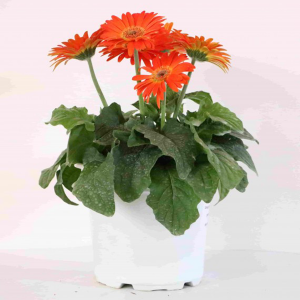
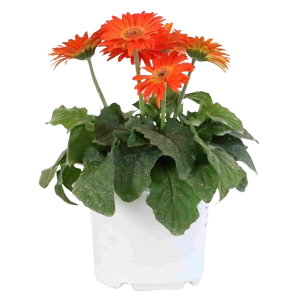
update code

diff --git a/src/Data/data.js b/src/Data/data.js
@@ -183,7 +183,7 @@ const flowerData =
         { Name: 'White roses', Category: 'bohoa', Price: '350000', PriceOld: '450000', Images: '/BoHoa/10258_white-roses.jpg' },
         { Name: 'The greatest thing 2', Category: 'bohoa', Price: '1250000', PriceOld: '1350000', Images: '/BoHoa/13259_the-greatest-thing.jpg' },
         { Name: 'Điều dễ thương', Category: 'bohoa', Price: '400000', PriceOld: '', Images: '/BoHoa/13441_dieu-de-thuong.jpg' },
-        { Name: 'Black pink', Category: 'bohoa', Price: '400000', PriceOld: '', Images: '/BoHoa/14386_black-pink.jpuyện của nắngg' },
+        { Name: 'Black pink', Category: 'bohoa', Price: '400000', PriceOld: '', Images: '/BoHoa/14386_black-pink.jpg' },
         { Name: 'Romantic heart', Category: 'bohoa', Price: '1500000', PriceOld: '1600000', Images: '/BoHoa/11593_romantic-heart.jpg' },
         { Name: 'Tỏa nắng 3', Category: 'bohoa', Price: '1000000', PriceOld: '', Images: '/BoHoa/14426_toa-nang.jpg' },
         { Name: 'Passionate Love', Category: 'bohoa', Price: '1500000', PriceOld: '1600000', Images: '/BoHoa/14424_passionate-love.jpg' },
@@ -220,7 +220,7 @@ const flowerData =
         { Name: 'Lan tỏa yêu thương', Category: 'giohoa', Price: '550000', PriceOld: '', Images: '/GioHoaTuoi/14843_lan-toa-yeu-thuong.jpg' },
         { Name: 'Sound of love', Category: 'giohoa', Price: '350000', PriceOld: '450000', Images: '/GioHoaTuoi/11610_sound-of-love.jpg' },
         { Name: 'Bất ngờ nhỏ', Category: 'giohoa', Price: '450000', PriceOld: '', Images: '/GioHoaTuoi/14842_bat-ngo-nho.jpg' },
-        { Name: 'Chiều hoàng hôn', Category: 'giohoa', Price: '600000', PriceOld: '650000', Images: '/GioHoaTuoi/11609_chieu-hoang-hon.jpg' },
+        { Name: 'Chiều hoàng hôn', Category: 'giohoa', Price: '600000', PriceOld: '650000', Images: '/GioHoaTuoi/11609_chieu-hoang-hon.png' },
         { Name: 'Love is you', Category: 'giohoa', Price: '650000', PriceOld: '', Images: '/GioHoaTuoi/14399_love-is-you.jpg' },
         { Name: 'Tuổi xanh', Category: 'giohoa', Price: '550000', PriceOld: '', Images: '/GioHoaTuoi/13219_tuoi-xanh.jpg' },
         { Name: 'Nữ hoàng', Category: 'giohoa', Price: '600000', PriceOld: '700000', Images: '/GioHoaTuoi/13075_nu-hoang.jpg' },
@@ -353,7 +353,7 @@ const flowerData =
         { Name: 'Sức sống', Price: '1000000', Category: 'hophoa', PriceOld: '', Images: '/HopHoaTuoi/14553_suc-song.jpg' },
         { Name: 'Niềm hi vọng', Price: '1500000', Category: 'hophoa', PriceOld: '', Images: '/HopHoaTuoi/14677_niem-hi-vong.jpg' },
         { Name: 'Trái tim chân thành', Price: '1800000', Category: 'hophoa', PriceOld: '', Images: '/HopHoaTuoi/14675_trai-tim-chan-thanh.jpg' },
-        { Name: 'Morning of Garden', Price: '950000', Category: 'hophoa', PriceOld: '1000000', Images: '/HopHoaTuoi/10908_morning-of-garden.jpg' },
+        { Name: 'Morning of Garden', Price: '950000', Category: 'hophoa', PriceOld: '1000000', Images: '/HopHoaTuoi/10908_morning-of-garden.png' },
         { Name: 'Lối rẽ', Price: '1800000', Category: 'hophoa', PriceOld: '', Images: '/HopHoaTuoi/14679_loi-re.jpg' },
         { Name: 'Hoa sen đá 3', Price: '2000000', Category: 'hophoa', PriceOld: '2050000', Images: '/HopHoaTuoi/14394_hoa-sen-da.jpg' },
         { Name: 'Love Heart', Price: '2300000', Category: 'hophoa', PriceOld: '2500000', Images: '/HopHoaTuoi/5128_love-heart.jpg' },
@@ -375,17 +375,17 @@ const flowerData =
         { Name: 'Amour', Price: '1000000', Category: 'hophoa', PriceOld: '1100000', Images: '/HopHoaTuoi/13222_amour.jpg' },
         { Name: 'Đồng hành', Price: '1500000', Category: 'hophoa', PriceOld: '1550000', Images: '/HopHoaTuoi/13192_dong-hanh.jpg' },
         { Name: 'Touch my heart', Price: '1300000', Category: 'hophoa', PriceOld: '1600000', Images: '/HopHoaTuoi/8041_touch-my-heart.jpg' },
-        { Name: 'Trái tim yêu thương', Price: '1550000', Category: 'hophoa', PriceOld: '1800000', Images: '/HopHoaTuoi/11045_trai-tim-yeu-thuong.jpg' },
+        { Name: 'Trái tim yêu thương', Price: '1550000', Category: 'hophoa', PriceOld: '1800000', Images: '/HopHoaTuoi/11045_trai-tim-yeu-thuong.png' },
         { Name: 'Cutie bear and rose 7', Price: '1000000', Category: 'hophoa', PriceOld: '1100000', Images: '/HopHoaTuoi/14183_cutie-bear-and-rose.jpg' },
         { Name: 'Điều ngọt ngào 2', Price: '1000000', Category: 'hophoa', PriceOld: '', Images: '/HopHoaTuoi/13193_dieu-ngot-ngao.jpg' },
         { Name: 'Năng lượng tràn đầy', Price: '1500000', Category: 'hophoa', PriceOld: '1550000', Images: '/HopHoaTuoi/10906_nang-luong-tran-day.jpg' },
         { Name: 'Bright sky', Price: '850000', Category: 'hophoa', PriceOld: '', Images: '/HopHoaTuoi/8042_bright-sky.jpg' },
-        { Name: 'Hoàng hôn ngọt ngào', Price: '850000', Category: 'hophoa', PriceOld: '', Images: '/HopHoaTuoi/10905_hoang-hon-ngot-ngao.jpg' },
+        { Name: 'Hoàng hôn ngọt ngào', Price: '850000', Category: 'hophoa', PriceOld: '', Images: '/HopHoaTuoi/10905_hoang-hon-ngot-ngao.png' },
         { Name: 'Home sweet home', Price: '880000', Category: 'hophoa', PriceOld: '1200000', Images: '/HopHoaTuoi/8367_home-sweet-home.jpg' },
         { Name: 'Hoa sen đá 1', Price: '1400000', Category: 'hophoa', PriceOld: '1450000', Images: '/HopHoaTuoi/10411_hoa-sen-da.jpg' },
         { Name: 'Niềm Tin', Price: '700000', Category: 'hophoa', PriceOld: '', Images: '/HopHoaTuoi/5201_niem-tin.jpg' },
         { Name: 'Tự tình', Price: '800000', Category: 'hophoa', PriceOld: '', Images: '/HopHoaTuoi/11584_tu-tinh.jpg' },
-        { Name: 'Trọn Vẹn Bên Nhau', Price: '800000', Category: 'hophoa', PriceOld: '', Images: '/HopHoaTuoi/6026_tron-ven-ben-nhau.jpg' },
+        { Name: 'Trọn Vẹn Bên Nhau', Price: '800000', Category: 'hophoa', PriceOld: '', Images: '/HopHoaTuoi/6026_tron-ven-ben-nhau.png' },
         { Name: 'Ấn tượng', Price: '800000', Category: 'hophoa', PriceOld: '', Images: '/HopHoaTuoi/13184_an-tuong.jpg' },
         { Name: 'Only rose 2', Price: '950000', Category: 'hophoa', PriceOld: '1000000', Images: '/HopHoaTuoi/12958_only-rose.jpg' },
         { Name: 'Sự sống', Price: '1500000', Category: 'hophoa', PriceOld: '1700000', Images: '/HopHoaTuoi/4695_su-song.jpg' },
@@ -394,17 +394,17 @@ const flowerData =
         { Name: 'Trong xanh', Price: '1000000', Category: 'hophoa', PriceOld: '1150000', Images: '/HopHoaTuoi/13221_trong-xanh.jpg' },
         { Name: 'Jolie', Price: '1500000', Category: 'hophoa', PriceOld: '', Images: '/HopHoaTuoi/13242_jolie.jpg' },
         { Name: 'Mama  Love', Price: '850000', Category: 'hophoa', PriceOld: '900000', Images: '/HopHoaTuoi/4920_mama-love.jpg' },
-        { Name: 'Feeling', Price: '1200000', Category: 'hophoa', PriceOld: '1300000', Images: '/HopHoaTuoi/10682_feeling.jpg' },
+        { Name: 'Feeling', Price: '1200000', Category: 'hophoa', PriceOld: '1300000', Images: '/HopHoaTuoi/10682_feeling.png' },
         { Name: 'Bản nhạc dịu êm', Price: '400000', Category: 'hophoa', PriceOld: '', Images: '/HopHoaTuoi/3339_ban-nhac-diu-em.jpg' },
         { Name: 'Nắng Sớm Mai', Price: '900000', Category: 'hophoa', PriceOld: '', Images: '/HopHoaTuoi/5282_nang-som-mai.jpg' },
         { Name: 'Pink Box', Price: '1000000', Category: 'hophoa', PriceOld: '1100000', Images: '/HopHoaTuoi/8290_pink-box.jpg' },
-        { Name: 'Hương gió', Price: '500000', Category: 'hophoa', PriceOld: '', Images: '/HopHoaTuoi/8443_huong-gio.jpg' },
+        { Name: 'Hương gió', Price: '500000', Category: 'hophoa', PriceOld: '', Images: '/HopHoaTuoi/8443_huong-gio.png' },
         { Name: 'Mộng mơ', Price: '600000', Category: 'hophoa', PriceOld: '', Images: '/HopHoaTuoi/4337_mong-mo.jpg' },
         { Name: 'Đong đầy', Price: '1100000', Category: 'hophoa', PriceOld: '', Images: '/HopHoaTuoi/13188_dong-day.jpg' },
         { Name: 'Một ngày nắng hồng', Price: '750000', Category: 'hophoa', PriceOld: '', Images: '/HopHoaTuoi/14498_mot-ngay-nang-hong.jpg' },
-        { Name: 'Hạnh phúc bất tận 2', Price: '1500000', Category: 'hophoa', PriceOld: '', Images: '/HopHoaTuoi/11044_hanh-phuc-bat-tan.jpg' },
+        { Name: 'Hạnh phúc bất tận 2', Price: '1500000', Category: 'hophoa', PriceOld: '', Images: '/HopHoaTuoi/11044_hanh-phuc-bat-tan.png' },
         { Name: 'Beauty queen', Price: '1400000', Category: 'hophoa', PriceOld: '', Images: '/HopHoaTuoi/8025_beauty-queen.jpg' },
-        { Name: 'La vie en rose', Price: '1100000', Category: 'hophoa', PriceOld: '', Images: '/HopHoaTuoi/10686_la-vie-en-rose.jpg' },
+        { Name: 'La vie en rose', Price: '1100000', Category: 'hophoa', PriceOld: '', Images: '/HopHoaTuoi/10686_la-vie-en-rose.png' },
         { Name: 'Ngọt ngào 2', Price: '900000', Category: 'hophoa', PriceOld: '', Images: '/HopHoaTuoi/12529_ngot-ngao.jpg' },
         { Name: 'My dear', Price: '900000', Category: 'hophoa', PriceOld: '', Images: '/HopHoaTuoi/8369_my-dear.jpg' },
         { Name: 'Tình Yêu Màu Nắng', Price: '850000', Category: 'hophoa', PriceOld: '916000', Images: '/HopHoaTuoi/8819_tinh-yeu-mau-nang.jpg' },
@@ -439,7 +439,7 @@ const flowerData =
         { Name: 'Cutie bear and rose 10', Price: '1100000', Category: 'hophoa', PriceOld: '', Images: '/HopHoaTuoi/14550_cutie-bear-and-rose.jpg' },
         { Name: 'Tấm lòng biết ơn', Price: '900000', Category: 'hophoa', PriceOld: '', Images: '/HopHoaTuoi/14552_tam-long-biet-on.jpg' },
         { Name: 'Rosa Grace', Price: '1200000', Category: 'hophoa', PriceOld: '1300000', Images: '/HopHoaTuoi/14457_rosa-grace.jpg' },
-        { Name: 'Sun flower', Price: '600000', Category: 'hophoa', PriceOld: '720000', Images: '/HopHoaTuoi/8040_sun-flower.jpg' },
+        { Name: 'Sun flower', Price: '600000', Category: 'hophoa', PriceOld: '720000', Images: '/HopHoaTuoi/8040_sun-flower.png' },
         { Name: 'Dạ khúc bên em', Price: '450000', Category: 'hophoa', PriceOld: '', Images: '/HopHoaTuoi/14673_da-khuc-ben-em.jpg' },
         { Name: 'Vững chắc', Price: '450000', Category: 'hophoa', PriceOld: '', Images: '/HopHoaTuoi/14674_vung-chac.jpg' },
         { Name: 'A little sweet', Price: '1500000', Category: 'hophoa', PriceOld: '1700000', Images: '/HopHoaTuoi/13225_a-little-sweet.jpg' },
@@ -454,10 +454,10 @@ const flowerData =
         { Name: 'For Gentlemen 2', Price: '2000000', Category: 'hophoa', PriceOld: '2100000', Images: '/HopHoaTuoi/14684_for-gentlemen.jpg' },
         { Name: 'Graceful 2', Price: '2500000', Category: 'hophoa', PriceOld: '', Images: '/HopHoaTuoi/14685_graceful.jpg' },
         { Name: 'Hồng tươi sáng', Price: '1500000', Category: 'hophoa', PriceOld: '', Images: '/HopHoaTuoi/14478_hong-tuoi-sang.jpg' },
-        { Name: 'Điều Mong Ước', Price: '1500000', Category: 'hophoa', PriceOld: '1700000', Images: '/HopHoaTuoi/6024_dieu-mong-uoc.jpg' },
+        { Name: 'Điều Mong Ước', Price: '1500000', Category: 'hophoa', PriceOld: '1700000', Images: '/HopHoaTuoi/6024_dieu-mong-uoc.png' },
         { Name: 'Gentle Bloom', Price: '1300000', Category: 'hophoa', PriceOld: '', Images: '/HopHoaTuoi/14456_gentle-bloom.jpg' },
-        { Name: 'Tiếp bước', Price: '2000000', Category: 'hophoa', PriceOld: '1700000', Images: '/HopHoaTuoi/11567_tiep-buoc.jpg' },
-        { Name: 'Red box', Price: '1600000', Category: 'hophoa', PriceOld: '1875000', Images: '/HopHoaTuoi/8289_red-box.jpg"' },
+        { Name: 'Tiếp bước', Price: '2000000', Category: 'hophoa', PriceOld: '1700000', Images: '/HopHoaTuoi/11567_tiep-buoc.png' },
+        { Name: 'Red box', Price: '1600000', Category: 'hophoa', PriceOld: '1875000', Images: '/HopHoaTuoi/8289_red-box.png' },
         { Name: 'Tim yêu', Price: '2200000', Category: 'hophoa', PriceOld: '2500000', Images: '/HopHoaTuoi/14693_tim-yeu.jpg' },
         { Name: 'Tung cánh bay xa', Price: '2500000', Category: 'hophoa', PriceOld: '', Images: '/HopHoaTuoi/14690_tung-canh-bay-xa.jpg' },
         { Name: 'Hy Vọng', Price: '650000', Category: 'hophoa', PriceOld: '', Images: '/HopHoaTuoi/5129_hy-vong.jpg' },
@@ -465,57 +465,57 @@ const flowerData =
         { Name: 'Màu nắng mới', Price: '700000', Category: 'hophoa', PriceOld: '', Images: '/HopHoaTuoi/14845_mau-nang-moi.jpg' },
         //Xong
         //CHẬU HOA
-        { Name: 'Chậu cúc Nhật', Price: '350000', Category: 'chauhoa', PriceOld: '', Images: '/ChauHoa/chau-cuc-nhat_300x300.jpg' },
+        { Name: 'Chậu cúc Nhật', Price: '350000', Category: 'chauhoa', PriceOld: '', Images: '/ChauHoa/chau-cuc-nhat_300x300.png' },
         { Name: 'Chậu cây hoa hồng 09', Price: '380000', Category: 'chauhoa', PriceOld: '', Images: '/ChauHoa/chau-cay-hoa-hong-09_300x300.jpg' },
         { Name: 'Chậu đồng tiền 01', Price: '380000', Category: 'chauhoa', PriceOld: '', Images: '/ChauHoa/chau-dong-tien-01_300x300.jpg' },
-        { Name: 'Chậu đồng tiền 02', Price: '380000', Category: 'chauhoa', PriceOld: '', Images: '/ChauHoa/chau-dong-tien-02_300x300.jpg' },
-        { Name: 'Chậu đồng tiền 03', Price: '380000', Category: 'chauhoa', PriceOld: '', Images: '/ChauHoa/chau-dong-tien-03_300x300.jpg' },
+        { Name: 'Chậu đồng tiền 02', Price: '380000', Category: 'chauhoa', PriceOld: '', Images: '/ChauHoa/chau-dong-tien-02_300x300.png' },
+        { Name: 'Chậu đồng tiền 03', Price: '380000', Category: 'chauhoa', PriceOld: '', Images: '/ChauHoa/chau-dong-tien-03_300x300.png' },
         { Name: 'Chậu đồng tiền 04', Price: '380000', Category: 'chauhoa', PriceOld: '', Images: '/ChauHoa/chau-dong-tien-04_300x300.png' },
         { Name: 'Chậu đồng tiền 05', Price: '380000', Category: 'chauhoa', PriceOld: '', Images: '/ChauHoa/chau-dong-tien-05_300x300.png' },
-        { Name: 'Chậu cây oải hương 03', Price: '390000', Category: 'chauhoa', PriceOld: '', Images: '/ChauHoa/chau-cay-oai-huong-03_300x300.jpg' },
-        { Name: 'Chậu cây hoa hồng 03', Price: '380000', Category: 'chauhoa', PriceOld: '', Images: '/ChauHoa/chau-cay-hoa-hong-03_300x300.jpg' },
-        { Name: 'Chậu cây hoa hồng 04', Price: '400000', Category: 'chauhoa', PriceOld: '', Images: '/ChauHoa/chau-cay-hoa-hong-04_300x300.jpg' },
-        { Name: 'Chậu cây hoa hồng 06', Price: '400000', Category: 'chauhoa', PriceOld: '', Images: '/ChauHoa/chau-cay-hoa-hong-06_300x300.jpg' },
-        { Name: 'Cây trạng nguyên 09', Price: '420000', Category: 'chauhoa', PriceOld: '', Images: '/ChauHoa/cay-trang-nguyen-09_300x300.jpg' },
-        { Name: 'Chậu cây oải hương 01', Price: '450000', Category: 'chauhoa', PriceOld: '', Images: '/ChauHoa/chau-cay-oai-huong-01_300x300.jpg' },
-        { Name: 'Chậu cây oải hương 02', Price: '450000', Category: 'chauhoa', PriceOld: '', Images: '/ChauHoa/chau-cay-oai-huong-02_300x300.jpg' },
-        { Name: 'Chậu cúc calimero 01', Price: '450000', Category: 'chauhoa', PriceOld: '', Images: '/ChauHoa/chau-cuc-calimero-01_300x300.jpg' },
+        { Name: 'Chậu cây oải hương 03', Price: '390000', Category: 'chauhoa', PriceOld: '', Images: '/ChauHoa/chau-cay-oai-huong-03_300x300.png' },
+        { Name: 'Chậu cây hoa hồng 03', Price: '380000', Category: 'chauhoa', PriceOld: '', Images: '/ChauHoa/chau-cay-hoa-hong-03_300x300.png' },
+        { Name: 'Chậu cây hoa hồng 04', Price: '400000', Category: 'chauhoa', PriceOld: '', Images: '/ChauHoa/chau-cay-hoa-hong-04_300x300.png' },
+        { Name: 'Chậu cây hoa hồng 06', Price: '400000', Category: 'chauhoa', PriceOld: '', Images: '/ChauHoa/chau-cay-hoa-hong-06_300x300.png' },
+        { Name: 'Cây trạng nguyên 09', Price: '420000', Category: 'chauhoa', PriceOld: '', Images: '/ChauHoa/cay-trang-nguyen-09_300x300.png' },
+        { Name: 'Chậu cây oải hương 01', Price: '450000', Category: 'chauhoa', PriceOld: '', Images: '/ChauHoa/chau-cay-oai-huong-01_300x300.png' },
+        { Name: 'Chậu cây oải hương 02', Price: '450000', Category: 'chauhoa', PriceOld: '', Images: '/ChauHoa/chau-cay-oai-huong-02_300x300.png' },
+        { Name: 'Chậu cúc calimero 01', Price: '450000', Category: 'chauhoa', PriceOld: '', Images: '/ChauHoa/chau-cuc-calimero-01_300x300.png' },
         { Name: 'Cây trạng nguyên 01', Price: '450000', Category: 'chauhoa', PriceOld: '', Images: '/ChauHoa/cay-trang-nguyen-01_300x300.jpg' },
-        { Name: 'Cây trạng nguyên 05', Price: '450000', Category: 'chauhoa', PriceOld: '', Images: '/ChauHoa/cay-trang-nguyen-05_300x300.jpg' },
-        { Name: 'Cây trạng nguyên 02', Price: '460000', Category: 'chauhoa', PriceOld: '', Images: '/ChauHoa/cay-trang-nguyen-02_300x300.jpg' },
-        { Name: 'Chậu cây hoa hồng 01', Price: '480000', Category: 'chauhoa', PriceOld: '', Images: '/ChauHoa/chau-cay-hoa-hong-01_300x300.jpg' },
-        { Name: 'Chậu cây hoa hồng 07', Price: '480000', Category: 'chauhoa', PriceOld: '', Images: '/ChauHoa/chau-cay-hoa-hong-07_300x300.jpg' },
+        { Name: 'Cây trạng nguyên 05', Price: '450000', Category: 'chauhoa', PriceOld: '', Images: '/ChauHoa/cay-trang-nguyen-05_300x300.png' },
+        { Name: 'Cây trạng nguyên 02', Price: '460000', Category: 'chauhoa', PriceOld: '', Images: '/ChauHoa/cay-trang-nguyen-02_300x300.png' },
+        { Name: 'Chậu cây hoa hồng 01', Price: '480000', Category: 'chauhoa', PriceOld: '', Images: '/ChauHoa/chau-cay-hoa-hong-01_300x300.png' },
+        { Name: 'Chậu cây hoa hồng 07', Price: '480000', Category: 'chauhoa', PriceOld: '', Images: '/ChauHoa/chau-cay-hoa-hong-07_300x300.png' },
         { Name: 'Chậu cúc thân gỗ', Price: '480000', Category: 'chauhoa', PriceOld: '', Images: '/ChauHoa/chau-cuc-than-go_300x300.jpg' },
-        { Name: 'Cây trạng nguyên 03', Price: '480000', Category: 'chauhoa', PriceOld: '', Images: '/ChauHoa/cay-trang-nguyen-03_300x300.jpg' },
+        { Name: 'Cây trạng nguyên 03', Price: '480000', Category: 'chauhoa', PriceOld: '', Images: '/ChauHoa/cay-trang-nguyen-03_300x300.png' },
         { Name: 'Cây trạng nguyên 06', Price: '480000', Category: 'chauhoa', PriceOld: '', Images: '/ChauHoa/cay-trang-nguyen-06_300x300.jpg' },
-        { Name: 'Chậu cây hoa hồng 05', Price: '500000', Category: 'chauhoa', PriceOld: '', Images: '/ChauHoa/chau-cay-hoa-hong-05_300x300.jpg' },
-        { Name: 'Chậu hồng môn 02', Price: '500000', Category: 'chauhoa', PriceOld: '', Images: '/ChauHoa/chau-hong-mon-02_300x300.jpg' },
-        { Name: 'Cây trạng nguyên 10', Price: '500000', Category: 'chauhoa', PriceOld: '', Images: '/ChauHoa/chau-hong-mon-02_300x300.jpg' },
-        { Name: 'Chậu cây cẩm tú cầu 03', Price: '550000', Category: 'chauhoa', PriceOld: '', Images: '/ChauHoa/chau-cay-cam-tu-cau-03_300x300.jpg' },
-        { Name: 'Cây trạng nguyên 08', Price: '550000', Category: 'chauhoa', PriceOld: '', Images: '/ChauHoa/cay-trang-nguyen-08_300x300.jpg' },
-        { Name: 'Chậu cây cẩm tú cầu 01', Price: '600000', Category: 'chauhoa', PriceOld: '', Images: '/ChauHoa/chau-cay-cam-tu-cau-01_300x300.jpg' },
-        { Name: 'Chậu cây cẩm tú cầu 04', Price: '600000', Category: 'chauhoa', PriceOld: '', Images: '/ChauHoa/chau-cay-cam-tu-cau-04_300x300.jpg' },
-        { Name: 'Cây trạng nguyên 07', Price: '600000', Category: 'chauhoa', PriceOld: '', Images: '/ChauHoa/cay-trang-nguyen-07_300x300.jpg' },
+        { Name: 'Chậu cây hoa hồng 05', Price: '500000', Category: 'chauhoa', PriceOld: '', Images: '/ChauHoa/chau-cay-hoa-hong-05_300x300.png' },
+        { Name: 'Chậu hồng môn 02', Price: '500000', Category: 'chauhoa', PriceOld: '', Images: '/ChauHoa/chau-hong-mon-02_300x300.png' },
+        { Name: 'Cây trạng nguyên 10', Price: '500000', Category: 'chauhoa', PriceOld: '', Images: '/ChauHoa/chau-hong-mon-02_300x300.png' },
+        { Name: 'Chậu cây cẩm tú cầu 03', Price: '550000', Category: 'chauhoa', PriceOld: '', Images: '/ChauHoa/chau-cay-cam-tu-cau-03_300x300.png' },
+        { Name: 'Cây trạng nguyên 08', Price: '550000', Category: 'chauhoa', PriceOld: '', Images: '/ChauHoa/cay-trang-nguyen-08_300x300.png' },
+        { Name: 'Chậu cây cẩm tú cầu 01', Price: '600000', Category: 'chauhoa', PriceOld: '', Images: '/ChauHoa/chau-cay-cam-tu-cau-01_300x300.png' },
+        { Name: 'Chậu cây cẩm tú cầu 04', Price: '600000', Category: 'chauhoa', PriceOld: '', Images: '/ChauHoa/chau-cay-cam-tu-cau-04_300x300.png' },
+        { Name: 'Cây trạng nguyên 07', Price: '600000', Category: 'chauhoa', PriceOld: '', Images: '/ChauHoa/cay-trang-nguyen-07_300x300.png' },
         { Name: 'Cây trạng nguyên 13', Price: '600000', Category: 'chauhoa', PriceOld: '', Images: '/ChauHoa/cay-trang-nguyen-13_300x300.jpg' },
         { Name: 'Cây trạng nguyên 14', Price: '600000', Category: 'chauhoa', PriceOld: '', Images: '/ChauHoa/cay-trang-nguyen-14_300x300.jpg' },
-        { Name: 'Chậu cây cẩm tú cầu 02', Price: '650000', Category: 'chauhoa', PriceOld: '', Images: '/ChauHoa/chau-cay-cam-tu-cau-02_300x300.jpg' },
-        { Name: 'Chậu hồng môn 01', Price: '650000', Category: 'chauhoa', PriceOld: '', Images: '/ChauHoa/chau-hong-mon-01_300x300.jpg' },
-        { Name: 'Cây trạng nguyên 04', Price: '650000', Category: 'chauhoa', PriceOld: '', Images: '/ChauHoa/cay-trang-nguyen-04_300x300.jpg' },
+        { Name: 'Chậu cây cẩm tú cầu 02', Price: '650000', Category: 'chauhoa', PriceOld: '', Images: '/ChauHoa/chau-cay-cam-tu-cau-02_300x300.png' },
+        { Name: 'Chậu hồng môn 01', Price: '650000', Category: 'chauhoa', PriceOld: '', Images: '/ChauHoa/chau-hong-mon-01_300x300.png' },
+        { Name: 'Cây trạng nguyên 04', Price: '650000', Category: 'chauhoa', PriceOld: '', Images: '/ChauHoa/cay-trang-nguyen-04_300x300.png' },
         { Name: 'Cây trạng nguyên 16', Price: '650000', Category: 'chauhoa', PriceOld: '', Images: '/ChauHoa/cay-trang-nguyen-16_300x300.jpg' },
-        { Name: 'Cây trạng nguyên 19', Price: '650000', Category: 'chauhoa', PriceOld: '', Images: '/ChauHoa/cay-trang-nguyen-19_300x300.jpg' },
-        { Name: 'Chậu cây cẩm tú cầu 07', Price: '680000', Category: 'chauhoa', PriceOld: '', Images: '/ChauHoa/chau-cay-cam-tu-cau-07_300x300.jpg' },
-        { Name: 'Cây trạng nguyên 15', Price: '700000', Category: 'chauhoa', PriceOld: '', Images: '/ChauHoa/cay-trang-nguyen-15_300x300.jpg' },
-        { Name: 'Chậu cây cẩm tú cầu 05', Price: '750000', Category: 'chauhoa', PriceOld: '', Images: '/ChauHoa/chau-cay-cam-tu-cau-05_300x300.jpg' },
-        { Name: 'Cây trạng nguyên 17', Price: '750000', Category: 'chauhoa', PriceOld: '', Images: '/ChauHoa/cay-trang-nguyen-17_300x300.jpg' },
-        { Name: 'Chậu cây cẩm tú cầu 06', Price: '800000', Category: 'chauhoa', PriceOld: '', Images: '/ChauHoa/chau-cay-cam-tu-cau-06_300x300.jpg' },
-        { Name: 'Chậu cây hoa hồng 08', Price: '800000', Category: 'chauhoa', PriceOld: '', Images: '/ChauHoa/chau-cay-hoa-hong-08_300x300.jpg' },
-        { Name: 'Cây trạng nguyên 11', Price: '800000', Category: 'chauhoa', PriceOld: '', Images: '/ChauHoa/cay-trang-nguyen-11_300x300.jpg' },
-        { Name: 'Chậu cây hoa hồng 02', Price: '850000', Category: 'chauhoa', PriceOld: '', Images: '/ChauHoa/chau-cay-hoa-hong-02_300x300.jpg' },
-        { Name: 'Cây trạng nguyên 12', Price: '950000', Category: 'chauhoa', PriceOld: '', Images: '/ChauHoa/cay-trang-nguyen-12_300x300.jpg' },
-        { Name: 'Chậu cây tulip 01', Price: '1200000', Category: 'chauhoa', PriceOld: '', Images: '/ChauHoa/chau-cay-tulip-01_300x300.jpg' },
-        { Name: 'Chậu cây tulip 02', Price: '1450000', Category: 'chauhoa', PriceOld: '', Images: '/ChauHoa/chau-cay-tulip-02_300x300.jpg' },
-        { Name: 'Cây trạng nguyên 18', Price: '1450000', Category: 'chauhoa', PriceOld: '', Images: '/ChauHoa/cay-trang-nguyen-18_300x300.jpg' },
-        { Name: 'Chậu cây tulip 03', Price: '1800000', Category: 'chauhoa', PriceOld: '', Images: '/ChauHoa/chau-cay-tulip-03_300x300.jpg' },
+        { Name: 'Cây trạng nguyên 19', Price: '650000', Category: 'chauhoa', PriceOld: '', Images: '/ChauHoa/cay-trang-nguyen-19_300x300.png' },
+        { Name: 'Chậu cây cẩm tú cầu 07', Price: '680000', Category: 'chauhoa', PriceOld: '', Images: '/ChauHoa/chau-cay-cam-tu-cau-07_300x300.png' },
+        { Name: 'Cây trạng nguyên 15', Price: '700000', Category: 'chauhoa', PriceOld: '', Images: '/ChauHoa/cay-trang-nguyen-15_300x300.png' },
+        { Name: 'Chậu cây cẩm tú cầu 05', Price: '750000', Category: 'chauhoa', PriceOld: '', Images: '/ChauHoa/chau-cay-cam-tu-cau-05_300x300.png' },
+        { Name: 'Cây trạng nguyên 17', Price: '750000', Category: 'chauhoa', PriceOld: '', Images: '/ChauHoa/cay-trang-nguyen-17_300x300.png' },
+        { Name: 'Chậu cây cẩm tú cầu 06', Price: '800000', Category: 'chauhoa', PriceOld: '', Images: '/ChauHoa/chau-cay-cam-tu-cau-06_300x300.png' },
+        { Name: 'Chậu cây hoa hồng 08', Price: '800000', Category: 'chauhoa', PriceOld: '', Images: '/ChauHoa/chau-cay-hoa-hong-08_300x300.png' },
+        { Name: 'Cây trạng nguyên 11', Price: '800000', Category: 'chauhoa', PriceOld: '', Images: '/ChauHoa/cay-trang-nguyen-11_300x300.png' },
+        { Name: 'Chậu cây hoa hồng 02', Price: '850000', Category: 'chauhoa', PriceOld: '', Images: '/ChauHoa/chau-cay-hoa-hong-02_300x300.png' },
+        { Name: 'Cây trạng nguyên 12', Price: '950000', Category: 'chauhoa', PriceOld: '', Images: '/ChauHoa/cay-trang-nguyen-12_300x300.png' },
+        { Name: 'Chậu cây tulip 01', Price: '1200000', Category: 'chauhoa', PriceOld: '', Images: '/ChauHoa/chau-cay-tulip-01_300x300.png' },
+        { Name: 'Chậu cây tulip 02', Price: '1450000', Category: 'chauhoa', PriceOld: '', Images: '/ChauHoa/chau-cay-tulip-02_300x300.png' },
+        { Name: 'Cây trạng nguyên 18', Price: '1450000', Category: 'chauhoa', PriceOld: '', Images: '/ChauHoa/cay-trang-nguyen-18_300x300.png' },
+        { Name: 'Chậu cây tulip 03', Price: '1800000', Category: 'chauhoa', PriceOld: '', Images: '/ChauHoa/chau-cay-tulip-03_300x300.png' },
         //Hoa Sáp
         { Name: 'Bó hoa sáp 1', Price: '450000', Category: 'hoasap', PriceOld: '', Images: '/HoaSap/hoasap1.jpg' },
         { Name: 'Bó hoa sáp đỏ', Price: '450000', Category: 'hoasap', PriceOld: '', Images: '/HoaSap/hoasap2.jpg' },
@@ -588,7 +588,7 @@ const flowerData =
         { Name: 'Rest in peace', Price: '1350000', Category: 'hoachiabuon', PriceOld: '', Images: '/HoaChiaBuon/8388_rest-in-peace.jpg' },
         { Name: 'Condolence 2', Price: '1500000', Category: 'hoachiabuon', PriceOld: '', Images: '/HoaChiaBuon/13322_condolence.jpg' },
         { Name: 'Condolence 4', Price: '1400000', Category: 'hoachiabuon', PriceOld: '', Images: '/HoaChiaBuon/13316_condolence.jpg' },
-        { Name: 'Kí ức xưa', Price: '1000000', Category: 'hoachiabuon', PriceOld: '1100000', Images: '/HoaChiaBuon/8390_ki-uc-xua.jpg' },
+        { Name: 'Kí ức xưa', Price: '1000000', Category: 'hoachiabuon', PriceOld: '1100000', Images: '/HoaChiaBuon/8390_ki-uc-xua.png' },
         { Name: 'Hư Vô', Price: '1550000', Category: 'hoachiabuon', PriceOld: '', Images: '/HoaChiaBuon/13100_hu-vo.jpg' },
         { Name: 'Tâm Thành', Price: '1500000', Category: 'hoachiabuon', PriceOld: '', Images: '/HoaChiaBuon/12500_tam-thanh.jpg' },
         { Name: 'Lệ dâng', Price: '1800000', Category: 'hoachiabuon', PriceOld: '1935185', Images: '/HoaChiaBuon/12673_le-dang.jpg' },
@@ -599,7 +599,7 @@ const flowerData =
         { Name: 'Hợp tan', Price: '1900000', Category: 'hoachiabuon', PriceOld: '', Images: '/HoaChiaBuon/12487_hop-tan.jpg' },
         { Name: 'Cõi an yên', Price: '2000000', Category: 'hoachiabuon', PriceOld: '', Images: '/HoaChiaBuon/11616_coi-an-yen.jpg' },
         { Name: 'Dĩ Vãng', Price: '2800000', Category: 'hoachiabuon', PriceOld: '', Images: '/HoaChiaBuon/5332_di-vang.jpg' },
-        { Name: 'Condolence 1', Price: '2500000', Category: 'hoachiabuon', PriceOld: '', Images: '/HoaChiaBuon/13319_condolence.jpg' },
+        { Name: 'Condolence 1', Price: '2500000', Category: 'hoachiabuon', PriceOld: '', Images: '/HoaChiaBuon/13319_condolence.png' },
         { Name: 'Tiễn đưa', Price: '1600000', Category: 'hoachiabuon', PriceOld: '', Images: '/HoaChiaBuon/13103_tien-dua.jpg' },
         { Name: 'Hư không 2', Price: '2000000', Category: 'hoachiabuon', PriceOld: '2240741', Images: '/HoaChiaBuon/12629_hu-khong.jpg' },
         { Name: 'Kiếp Vô Thường', Price: '3300000', Category: 'hoachiabuon', PriceOld: '', Images: '/HoaChiaBuon/5596_kiep-vo-thuong.jpg' },
@@ -609,9 +609,9 @@ const flowerData =
         { Name: 'Deep condolence 2', Price: '4000000', Category: 'hoachiabuon', PriceOld: '', Images: '/HoaChiaBuon/12720_deep-condolence.jpg' },
         { Name: 'Mãi nhớ', Price: '2000000', Category: 'hoachiabuon', PriceOld: '', Images: '/HoaChiaBuon/4353_mai-nho.jpg' },
         { Name: 'Vĩnh biệt 2', Price: '1200000', Category: 'hoachiabuon', PriceOld: '', Images: '/HoaChiaBuon/3064_vinh-biet.jpg' },
-        { Name: 'Lặng Lẽ', Price: '1600000', Category: 'hoachiabuon', PriceOld: '', Images: '/HoaChiaBuon/9452_lang-le.jpg' },
+        { Name: 'Lặng Lẽ', Price: '1600000', Category: 'hoachiabuon', PriceOld: '', Images: '/HoaChiaBuon/9452_lang-le.png' },
         { Name: 'The end', Price: '1300000', Category: 'hoachiabuon', PriceOld: '', Images: '/HoaChiaBuon/4589_the-end.jpg' },
-        { Name: 'Tiếc thương 2', Price: '4000000', Category: 'hoachiabuon', PriceOld: '', Images: '/HoaChiaBuon/8399_tiec-thuong.jpg' },
+        { Name: 'Tiếc thương 2', Price: '4000000', Category: 'hoachiabuon', PriceOld: '', Images: '/HoaChiaBuon/8399_tiec-thuong.png' },
         { Name: 'Yên Nghỉ', Price: '2700000', Category: 'hoachiabuon', PriceOld: '', Images: '/HoaChiaBuon/5260_yen-nghi.jpg' },
         { Name: 'Phù du', Price: '1500000', Category: 'hoachiabuon', PriceOld: '', Images: '/HoaChiaBuon/4672_phu-du.jpg' },
         { Name: 'Vô Thường', Price: '1300000', Category: 'hoachiabuon', PriceOld: '', Images: '/HoaChiaBuon/5203_vo-thuong.jpg' },
@@ -645,10 +645,10 @@ const flowerData =
         { Name: 'Kệ Chia Buồn 05', Price: '700000', Category: 'hoachiabuon', PriceOld: '', Images: '/HoaChiaBuon/13147_ke-chia-buon.jpg' },
         { Name: 'Hư không', Price: '650000', Category: 'hoachiabuon', PriceOld: '', Images: '/HoaChiaBuon/4371_hu-khong.jpg' },
         { Name: 'Heaven 02', Price: '1000000', Category: 'hoachiabuon', PriceOld: '', Images: '/HoaChiaBuon/13200_heaven.jpg' },
-        { Name: 'Sương Trắng', Price: '2200000', Category: 'hoachiabuon', PriceOld: '', Images: '/HoaChiaBuon/6950_suong-trang.jpg' },
+        { Name: 'Sương Trắng', Price: '2200000', Category: 'hoachiabuon', PriceOld: '', Images: '/HoaChiaBuon/6950_suong-trang.png' },
         { Name: 'Xa cách', Price: '1500000', Category: 'hoachiabuon', PriceOld: '', Images: '/HoaChiaBuon/13102_xa-cach.jpg' },
         { Name: 'Niềm thương tiếc', Price: '2000000', Category: 'hoachiabuon', PriceOld: '', Images: '/HoaChiaBuon/11865_niem-thuong-tiec.jpg' },
-        { Name: 'An lạc', Price: '1800000', Category: 'hoachiabuon', PriceOld: '', Images: '/HoaChiaBuon/10965_an-lac.jpg' },
+        { Name: 'An lạc', Price: '1800000', Category: 'hoachiabuon', PriceOld: '', Images: '/HoaChiaBuon/10965_an-lac.png' },
         { Name: 'Nhân sinh', Price: '1700000', Category: 'hoachiabuon', PriceOld: '', Images: '/HoaChiaBuon/12503_nhan-sinh.jpg' },
         { Name: 'An yên', Price: '9500000', Category: 'hoachiabuon', PriceOld: '10185185', Images: '/HoaChiaBuon/13402_an-yen.jpg' },
         { Name: 'Tôn nghiêm', Price: '1400000', Category: 'hoachiabuon', PriceOld: '', Images: '/HoaChiaBuon/13632_ton-nghiem.jpg' },
@@ -878,7 +878,7 @@ const flowerData =
         { Name: 'Premium vase 4', Price: '6000000', Category: 'hoacuc', PriceOld: '', Images: '/HoaChucMung/13309_premium-vase.jpg' },
         { Name: 'Luxury vase 21', Price: '1800000', Category: 'hoacuc', PriceOld: '2000000', Images: '/BoHoaCuc/13311_luxury-vase.jpg' },
         { Name: 'Luxury vase 22', Category: 'hoacuc', Price: '1500000', PriceOld: '1700000', Images: '/HoaChucMung/13312_luxury-vase.jpg' },
-        { Name: 'Condolence 1', Price: '2500000', Category: 'hoacuc', PriceOld: '', Images: '/HoaChiaBuon/13319_condolence.jpg' },
+        { Name: 'Condolence 1', Price: '2500000', Category: 'hoacuc', PriceOld: '', Images: '/HoaChiaBuon/13319_condolence.png' },
         { Name: 'Condolence 2', Price: '1500000', Category: 'hoacuc', PriceOld: '', Images: '/HoaChiaBuon/13322_condolence.jpg' },
         { Name: 'Condolence 3', Price: '2000000', Category: 'hoacuc', PriceOld: '', Images: '/HoaChiaBuon/13318_condolence.jpg' },
         { Name: 'Condolence 4', Price: '1400000', Category: 'hoacuc', PriceOld: '', Images: '/HoaChiaBuon/13316_condolence.jpg' },
@@ -1479,16 +1479,16 @@ const flowerData =
         { Name: 'Công Danh Phú Quý', Price: '1500000', Category: 'hoalan', PriceOld: '', Images: '/BoHoaCuc/5401_cong-danh-phu-quy.jpg' },
         { Name: 'Giã Biệt 1', Price: '2500000', Category: 'hoalan', PriceOld: '', Images: '/HoaChiaBuon/3013_gia-biet.jpg' },
         { Name: 'Tiễn Biệt 2', Price: '1100000', Category: 'hoalan', PriceOld: '', Images: '/HoaChiaBuon/3113_tien-biet.jpg' },
-        { Name: 'Tiếc thương 2', Price: '4000000', Category: 'hoalan', PriceOld: '', Images: '/HoaChiaBuon/8399_tiec-thuong.jpg' },
-        { Name: 'Kí ức xưa', Price: '1000000', Category: 'hoalan', PriceOld: '1100000', Images: '/HoaChiaBuon/8390_ki-uc-xua.jpg' },
-        { Name: 'Lặng Lẽ', Price: '1600000', Category: 'hoalan', PriceOld: '', Images: '/HoaChiaBuon/9452_lang-le.jpg' },
+        { Name: 'Tiếc thương 2', Price: '4000000', Category: 'hoalan', PriceOld: '', Images: '/HoaChiaBuon/8399_tiec-thuong.png' },
+        { Name: 'Kí ức xưa', Price: '1000000', Category: 'hoalan', PriceOld: '1100000', Images: '/HoaChiaBuon/8390_ki-uc-xua.png' },
+        { Name: 'Lặng Lẽ', Price: '1600000', Category: 'hoalan', PriceOld: '', Images: '/HoaChiaBuon/9452_lang-le.png' },
         { Name: 'Purple blooming', Price: '850000', Category: 'hoalan', PriceOld: '900000', Images: '/GioHoaTuoi/12347_purple-blooming.jpg' },
-        { Name: 'An lạc', Price: '1800000', Category: 'hoalan', PriceOld: '', Images: '/HoaChiaBuon/10965_an-lac.jpg' },
+        { Name: 'An lạc', Price: '1800000', Category: 'hoalan', PriceOld: '', Images: '/HoaChiaBuon/10965_an-lac.png' },
         { Name: 'Vĩnh biệt 2', Price: '1200000', Category: 'hoalan', PriceOld: '', Images: '/HoaChiaBuon/3064_vinh-biet.jpg' },
         { Name: 'Cõi an yên', Price: '2000000', Category: 'hoalan', PriceOld: '', Images: '/HoaChiaBuon/11616_coi-an-yen.jpg' },
         { Name: 'Heaven', Price: '3300000', Category: 'hoalan', PriceOld: '', Images: '/HoaChiaBuon/5127_heaven.jpg' },
         { Name: 'Ký Ức', Price: '2300000', Category: 'hoalan', PriceOld: '', Images: '/HoaChiaBuon/5218_ky-uc.jpg' },
-        { Name: 'Sương Trắng', Price: '2200000', Category: 'hoalan', PriceOld: '', Images: '/HoaChiaBuon/6950_suong-trang.jpg' },
+        { Name: 'Sương Trắng', Price: '2200000', Category: 'hoalan', PriceOld: '', Images: '/HoaChiaBuon/6950_suong-trang.png' },
         { Name: 'Miền Cực Lạc', Price: '1250000', Category: 'hoalan', PriceOld: '', Images: '/HoaChiaBuon/5051_mien-cuc-lac.jpg' },
         { Name: 'Vô Thường', Price: '1300000', Category: 'hoalan', PriceOld: '', Images: '/HoaChiaBuon/5203_vo-thuong.jpg' },
         { Name: 'Hạ trắng', Price: '1200000', Category: 'hoalan', PriceOld: '', Images: '/HoaChiaBuon/4507_ha-trang.jpg' },
@@ -1513,6 +1513,36 @@ const flowerData =
         { Name: 'Dancing lady', Price: '4000000', Category: 'hoalan', PriceOld: '', Images: '/HoaLan/12668_dancing-lady.jpg' },
         { Name: 'Luxury vase 19', Category: 'hoalan', Price: '4500000', PriceOld: '', Images: '/BoHoaCuc/12671_luxury-vase.jpg' },
         { Name: 'Hư không 2', Price: '2000000', Category: 'hoalan', PriceOld: '2240741', Images: '/HoaChiaBuon/12629_hu-khong.jpg' },
+        { Name: 'With deepest sympathy', Price: '11000000', Category: 'hoalan', PriceOld: '11712000', Images: '/HoaLan/12996_with-deepest-sympathy.jpg' },
+        { Name: 'Deepest Condolences', Price: '13000000', Category: 'hoalan', PriceOld: '', Images: '/HoaLan/12995_deepest-condolences.jpg' },
+        { Name: 'Kệ Chia Buồn 01', Price: '600000', Category: 'hoalan', PriceOld: '', Images: '/HoaChiaBuon/13143_ke-chia-buon.jpg' },
+        { Name: 'Kệ Chia Buồn 05', Price: '700000', Category: 'hoalan', PriceOld: '', Images: '/HoaChiaBuon/13147_ke-chia-buon.jpg' },
+        { Name: 'Kệ Chúc Mừng 02', Category: 'hoalan', Price: '950000', PriceOld: '1100000', Images: '/HoaChucMung/13150_ke-chuc-mung.jpg' },
+        { Name: 'Kệ Chúc Mừng 04', Price: '1200000', Category: 'hoalan', PriceOld: '1470000', Images: '/BoHoaDongTien/13152_ke-chuc-mung.jpg' },
+        { Name: 'Em về tinh khôi', Price: '1100000', Category: 'hoalan', PriceOld: '', Images: '/HopHoaTuoi/13191_em-ve-tinh-khoi.jpg' },
+        { Name: 'Thương ngày nắng về', Price: '1500000', Category: 'hoalan', PriceOld: '1629000', Images: '/HoaLan/13303_thuong-ngay-nang-ve.jpg' },
+        { Name: 'Condolence 1', Price: '2500000', Category: 'hoalan', PriceOld: '', Images: '/HoaChiaBuon/13319_condolence.png' },
+        { Name: 'Condolence 2', Price: '1500000', Category: 'hoalan', PriceOld: '', Images: '/HoaChiaBuon/13322_condolence.jpg' },
+        { Name: 'Condolence 3', Price: '2000000', Category: 'hoalan', PriceOld: '', Images: '/HoaChiaBuon/13318_condolence.jpg' },
+        { Name: 'Ngày cuối tuần 2', Price: '700000', Category: 'hoalan', PriceOld: '800000', Images: '/BoHoaDongTien/13365_ngay-cuoi-tuan.png' },
+        { Name: 'Niềm hạnh phúc', Price: '600000', Category: 'hoalan', PriceOld: '', Images: '/BoHoaCuc/13366_niem-hanh-phuc.png' },
+        { Name: 'An yên', Price: '9500000', Category: 'hoalan', PriceOld: '10185185', Images: '/HoaChiaBuon/13402_an-yen.jpg' },
+        { Name: 'Congratulations 6', Price: '2900000', Category: 'hoalan', PriceOld: '', Images: '/BoHoaCuc/13412_congratulations.jpg' },
+        { Name: 'Tỏa sáng 2', Category: 'hoalan', Price: '550000', PriceOld: '600000', Images: '/BoHoa/13286_toa-sang.jpg' },
+        { Name: 'Color Life 2', Category: 'hoalan', Price: '1800000', PriceOld: '2000000', Images: '/GioHoaTuoi/8047_color-life.jpg' },
+        { Name: 'Dancing Lady Orchid', Category: 'hoalan', Price: '1000000', PriceOld: '', Images: '/BoHoa/13038_dancing-lady-orchid.jpg' },
+        { Name: 'Cơn gió lạ', Category: 'hoalan', Price: '1000000', PriceOld: '1100000', Images: '/BoHoa/12525_con-gio-la.jpg' },
+        { Name: 'Tiền tài như nước', Price: '1500000', Category: 'hoalan', PriceOld: '', Images: '/HopHoaTuoi/8021_tien-tai-nhu-nuoc.jpg' },
+        { Name: 'Strong belief', Price: '1200000', Category: 'hoalan', PriceOld: '', Images: '/HopHoaTuoi/13186_strong-belief.jpg' },
+        { Name: 'Lời chúc thành công', Price: '1200000', Category: 'hoalan', PriceOld: '', Images: '/BoHoaLy/14346_loi-chuc-thanh-cong.jpg' },
+        { Name: 'Điều khác biệt', Category: 'hoalan', Price: '2200000', PriceOld: '', Images: '/GioHoaTuoi/14344_dieu-khac-biet.jpg' },
+        { Name: 'Gentle Bloom', Price: '1300000', Category: 'hoalan', PriceOld: '', Images: '/HopHoaTuoi/14456_gentle-bloom.jpg' },
+        { Name: 'Blushing Joy', Price: '500000', Category: 'hoalan', PriceOld: '', Images: '/GioHoaTuoi/14450_blushing-joy.jpg' },
+        { Name: 'Thiên thanh', Price: '2000000', Category: 'hoalan', PriceOld: '2200000', Images: '/HopHoaTuoi/14694_thien-thanh.jpg' },
+        { Name: 'Ngọt ngào sắc hoa', Price: '200000', Category: 'hoalan', PriceOld: '', Images: '/HopHoaTuoi/14688_ngot-ngao-sac-hoa.jpg' },
+        { Name: 'Lightly 2', Price: '1500000', Category: 'hoalan', PriceOld: '1700000', Images: '/HopHoaTuoi/14683_lightly.jpg' },
+        { Name: 'Lối rẽ', Price: '1800000', Category: 'hoalan', PriceOld: '', Images: '/HopHoaTuoi/14679_loi-re.jpg' },
+        { Name: 'Premium vase 5', Price: '8000000', Category: 'hoalan', PriceOld: '1629000', Images: '/HoaLan/14661_premium-vase.jpg' },
         //Giỏ quà tết
         { Name: 'Giỏ quà tết 27', Price: '500000', Category: 'gioquatet', PriceOld: '', Images: '/GioQuaTet/gio-qua-tet-27_300x300.jpg' },
         { Name: 'Giỏ quà tết 31', Price: '600000', Category: 'gioquatet', PriceOld: '', Images: '/GioQuaTet/gio-qua-tet-31_300x300.jpg' },
